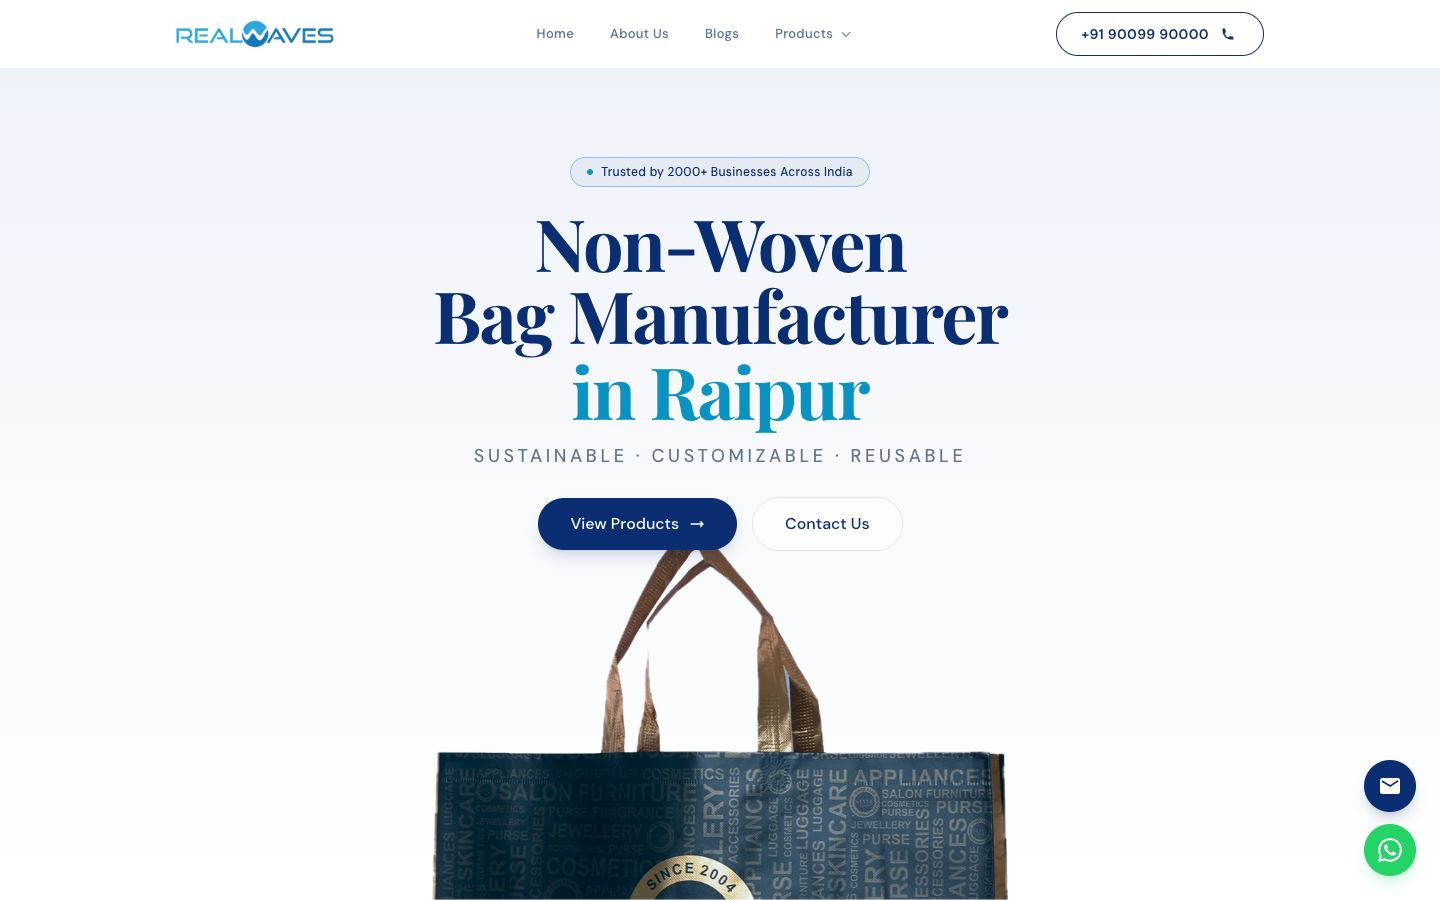
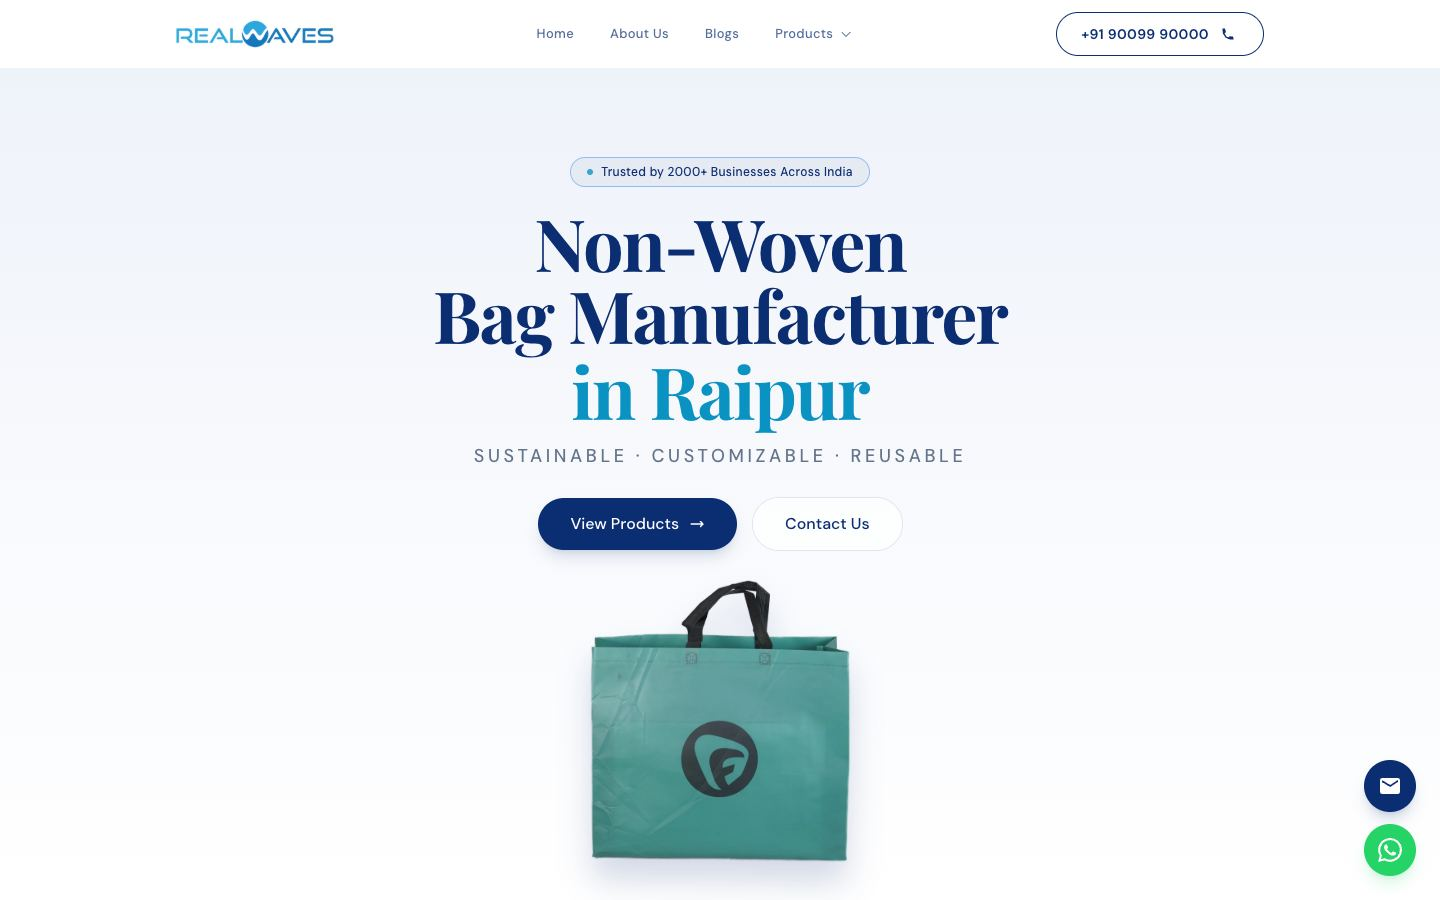
Hero: complete standing bag on every screen size
The old hero photo is a bag cut off at the bottom, designed to sit on
the bottom edge of a desktop screen; on phones it looked like it was
hanging in mid-air. Use a trimmed photo of a complete box bag
(public/heroSection/hero-bag.png) on all sizes, placed below the
buttons so it fills the remaining hero height and never overlaps the
text, with a ground shadow. The image no longer starts at opacity 0,
which delayed when phones counted it as painted.

Also refresh the report's homepage screenshots and keyword evidence.

Changed region(s): [[0.2812, 0.5911, 0.7188, 1.0]]

diff --git a/app/components/Hero2.tsx b/app/components/Hero2.tsx
@@ -2,10 +2,9 @@
 import Image from 'next/image';
 import CategoryCard2 from './CategoryCard2';
 import { categoryData } from '@/constants';
-import bag2 from "@/public/heroSection/_DSC3176 2.png"
-// Phones get a complete, standing bag: the desktop photo is cropped at the bottom so it can
-// sit on the screen edge, which looks like it's hanging in mid-air on a narrow screen.
-import bagMobile from "@/public/heroSection/erasebg-transformed (1).png"
+// A complete, standing bag on every screen size, grounded with a soft shadow.
+// (The old half-cut photo looked like it was hanging in mid-air.)
+import heroBag from "@/public/heroSection/hero-bag.png"
 import { useRouter } from 'next/navigation'
 import { useState, useRef, useEffect, useCallback } from 'react';
 import { motion, useMotionValue, useAnimation, PanInfo } from 'framer-motion';
@@ -171,27 +170,7 @@ export default function Hero2() {
                 }}
             />
 
-            {/* Bag image — absolute, behind text, anchored to bottom */}
-            <motion.div
-                initial={{ opacity: 0, y: 40 }}
-                animate={{ opacity: 1, y: 0 }}
-                transition={{ duration: 1, delay: 0.4, ease: [0.22, 1, 0.36, 1] }}
-                className="hidden md:flex md:absolute md:bottom-0 md:left-0 md:right-0 z-[1] items-end justify-center pointer-events-none md:h-[50%] lg:h-[52%]"
-            >
-                {/* sizes: on phones this copy is hidden, so ask for the smallest file */}
-                <Image
-                    src={bag2}
-                    alt="Custom printed non-woven bags made by RealWaves Packs in Raipur"
-                    width={1500}
-                    height={1500}
-                    quality={85}
-                    sizes="(max-width: 767px) 1px, (max-width: 1023px) 70vw, 60vw"
-                    priority
-                    className="w-[85%] sm:w-[80%] md:w-[70%] lg:w-[60%] max-h-full object-contain object-bottom"
-                />
-            </motion.div>
-
-            {/* Text content — on top of the bag */}
+            {/* Text content, with the bag image below it */}
             <div className="relative z-10 flex flex-col items-center text-center md:h-full justify-start pt-10 sm:pt-14 md:pb-0 md:pt-[14svh] lg:pt-[10svh] px-4">
                 {/* Trust Badge */}
                 <motion.div
@@ -268,29 +247,30 @@ export default function Hero2() {
                     </button>
                 </motion.div>
 
-                {/* Mobile bag image — flows naturally after buttons */}
-                {/* No fade-in here: this is the phone's main image, and an opacity-0 start makes
-                    it count as unseen until scripts load (5+ s on a slow phone). */}
+                {/* Bag image — below the buttons on every screen. On larger screens it fills
+                    the space left in the hero, so it can never run into the text. No opacity
+                    fade: it's the main image, and an opacity-0 start makes it count as unseen
+                    until scripts load (5+ s on a slow phone). */}
                 <motion.div
                     initial={{ scale: 0.96 }}
                     animate={{ scale: 1 }}
                     transition={{ duration: 0.8, ease: [0.22, 1, 0.36, 1] }}
-                    className="md:hidden flex flex-col items-center mt-8 pb-2 pointer-events-none"
+                    className="flex flex-col items-center w-full mt-8 pb-2 md:mt-4 md:flex-1 md:min-h-0 md:justify-center md:pb-6 pointer-events-none"
                 >
-                    {/* The main image on phones: load it first (it was lazy-loaded). On
-                        larger screens this copy is hidden, so ask for the smallest file. */}
                     <Image
-                        src={bagMobile}
+                        src={heroBag}
                         alt="Custom printed non-woven box bag made by RealWaves Packs in Raipur"
                         quality={85}
-                        sizes="(min-width: 768px) 1px, 88vw"
+                        sizes="(min-width: 768px) 34vw, 70vw"
                         priority
-                        className="w-auto max-w-[88%] max-h-[340px] object-contain"
+                        className="w-auto max-w-[70%] max-h-[300px] object-contain md:max-w-[42%] lg:max-w-[34%] md:max-h-[min(480px,calc(100%_-_28px))] md:drop-shadow-[0_22px_16px_rgba(11,45,114,0.18)]"
                     />
-                    {/* Soft ground shadow so the bag reads as standing, not floating */}
+                    {/* Soft ground shadow so the bag reads as standing, not floating. On larger
+                        screens the bag resizes with the hero, so a drop-shadow that follows the
+                        bag's outline (on the image above) replaces this fixed-width oval. */}
                     <div
                         aria-hidden="true"
-                        className="w-[62%] h-[18px] -mt-1.5 rounded-[50%] bg-[radial-gradient(closest-side,rgba(11,45,114,0.22),rgba(11,45,114,0))]"
+                        className="md:hidden w-[56%] h-[18px] -mt-1 rounded-[50%] bg-[radial-gradient(closest-side,rgba(11,45,114,0.22),rgba(11,45,114,0))]"
                     />
                 </motion.div>
             </div>
